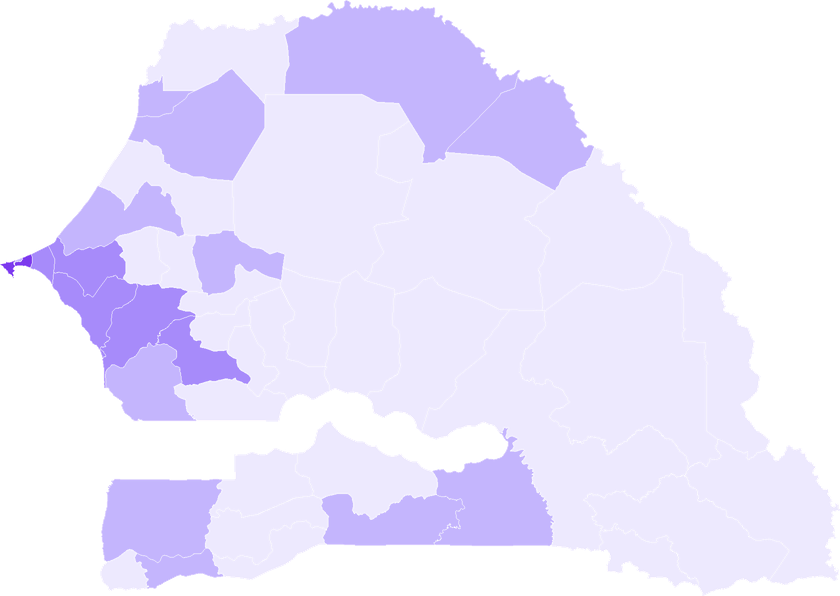
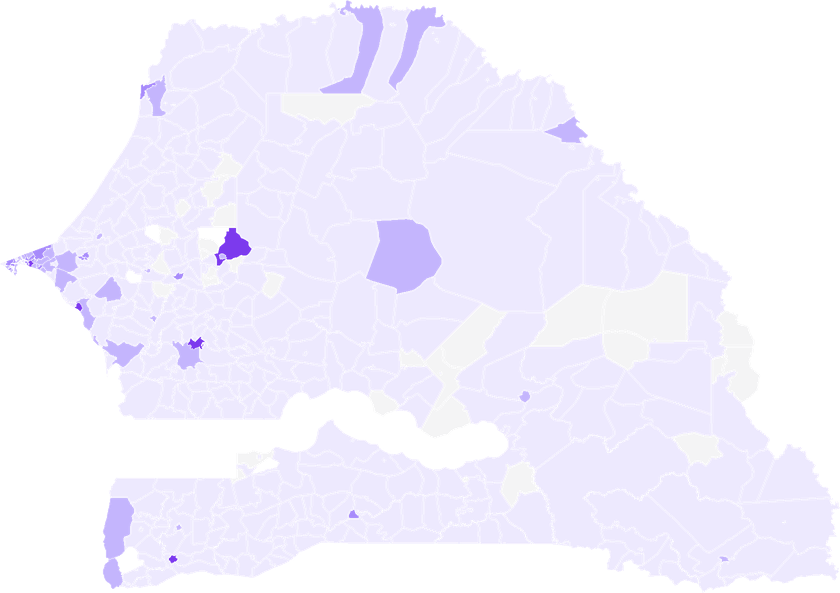
feat: map Senegal at commune level; note the Ministry's consent
Commune level now works. The previous department fallback was the right call
against the layers I had, but OpenStreetMap carries one the others do not:

    OSM admin_level=8      550 units   98.8% of schools matched
    GADM level 4           433 units   78%  (structurally capped: 433 < 549)
    geoBoundaries ADM3     121 units   arrondissements, not communes
    OCHA COD ADM3          125 units   arrondissements, not communes

Senegal has ~550 communes since the 2014 reorganisation, which is why the other
layers fall short. Polygons are stitched from the Overpass relations.

Getting from 81% to 98.8% took fixing my own normaliser as much as the source.
It missed OSM's "Communaute rurale d'" and "des" forms, so places like Oukout,
Adeane and Enampore never matched. On top of that: the census's "Com " prefix,
accent folding, the orthographic variation that is routine in Senegalese place
names (th/t, dj/j, ck/k, kh/h, ou/u, y/i, w/v, doubled letters), and a
20-entry alias table for the rest. Every fuzzy pair was eyeballed - Ngayokhene
/ Ngayokheme, Koumpentoun / Koumpentoum, Thiakar / Thiakhar are the same place.

The remaining 11 communes and 227 schools (1.2%) are drawn in the no-data tone
and the caption says so; several are simply absent from OSM.

Also: states that access to the Senegalese census is subject to the agreement
of officials at the Ministry of Education, and pulls the first record up
towards the introduction.

diff --git a/assets/css/custom.css b/assets/css/custom.css
@@ -468,6 +468,12 @@
   padding-top: 0;
 }
 
+/* Sections default to 6rem top and bottom; close most of that gap so the first
+ * record sits just under the introduction. */
+.datasets-intro {
+  padding-bottom: 1rem;
+}
+
 .dataset-wrapper {
   width: 100%;
   max-width: 880px;

diff --git a/scripts/build_senegal_maps.py b/scripts/build_senegal_maps.py
@@ -3,7 +3,7 @@
 Regenerate the Senegal school maps shown on /datasets/.
 
 One choropleth per school type, shaded by the number of schools in each
-department. Output goes to assets/media/datasets/.
+COMMUNE. Output goes to assets/media/datasets/.
 
     python3 scripts/build_senegal_maps.py
 
@@ -13,28 +13,41 @@ SOURCE DATA (not in this repo - it is not openly published):
         primary school census.xlsx
         secondary school census.xlsx
 
-WHY DEPARTMENT AND NOT COMMUNE
+BOUNDARIES: OpenStreetMap admin_level=8, fetched through Overpass (ODbL).
 
-The census locates schools to commune, and commune would be the better unit,
-but no boundary layer matches it well enough to map honestly:
+WHY OSM AND NOT GADM / geoBoundaries / OCHA
 
-    commune  vs GADM level 4 (433 shapes)   62.7% exact, 78% with fuzzy matching
-    department vs geoBoundaries ADM2 (45)   100% of schools, with 5 aliases
+The census locates schools to commune, and only OSM carries a commune layer
+that actually corresponds to it:
 
-GADM's level-4 layer has 433 communes against the census's 549 - Senegal's
-communes were reorganised and the layers genuinely do not correspond, so a
-commune map would silently drop a fifth of the schools. Department covers every
-school. If a current commune layer turns up, switch UNIT below.
+    OSM admin_level=8        550 units   98.2% of schools matched
+    GADM level 4             433 units   78%  (structurally capped: 433 < 549)
+    geoBoundaries ADM3       121 units   arrondissements, not communes
+    OCHA COD ADM3            125 units   arrondissements, not communes
+
+Senegal has ~550 communes since the 2014 reorganisation; the other layers
+predate it or stop a level short.
+
+MATCHING (see match_communes)
+
+Three passes, in order: a hand-written alias table, then exact match on a
+normalised key, then difflib at >= 0.84. Normalisation strips the census's
+"Com " prefix and OSM's "Communauté rurale de / d' / des" forms, folds accents,
+and collapses the orthographic variation that is routine in Senegalese place
+names - th/t, dj/j, ck/k, kh/h, ou/u, y/i, w/v, and doubled letters. That is
+what takes the match from 81% to 98%: "Ngayokhene"/"Ngayokhème",
+"Koumpentoun"/"Koumpentoum", "Thiakar"/"Thiakhar" are the same place.
+
+The run prints the final coverage and lists whatever is left unmatched -
+currently ~19 communes and under 2% of schools, some of which are simply
+absent from OSM. Unmatched communes are drawn in the "no data" tone.
 
 DESIGN NOTES
 
   * Sequential ramp: one hue, light to dark, lightness strictly decreasing
     (asserted at run time). Sequential encodes magnitude - never a rainbow.
-  * One ABSOLUTE scale shared by all three panels, so they are comparable: the
-    point is that secondary schools are far rarer than primary ones, and a
-    per-panel rescale would hide exactly that.
+  * One ABSOLUTE scale shared by all three panels, so they are comparable.
   * Transparent background, labels in HTML, so one asset serves both themes.
-  * Boundaries: geoBoundaries gbOpen SEN ADM2 (CC BY 3.0 IGO).
 """
 
 import json
@@ -44,19 +57,24 @@ import subprocess
 import sys
 import unicodedata
 import difflib
+from collections import Counter
 
 import pandas as pd
 from PIL import Image, ImageDraw
 
 SRC = "/Users/perezp/Dropbox/Education and Marriage in Senegal/Data/School Census"
 OUT = "assets/media/datasets"
-API = "https://www.geoboundaries.org/api/current/gbOpen/SEN/ADM2/"
+CACHE = "/tmp/osm_sen_communes.json"
+OVERPASS = "https://overpass-api.de/api/interpreter"
+QUERY = """[out:json][timeout:600];
+area["ISO3166-1"="SN"][admin_level=2]->.sn;
+relation["boundary"="administrative"]["admin_level"="8"](area.sn);
+out geom;"""
 
 WIDTH, SUPERSAMPLE = 840, 2
-# Sequential ramp, light -> dark. Verified monotonic in OKLab L at run time.
 RAMP = ["#ede9fe", "#c4b5fd", "#a78bfa", "#7c3aed", "#5b21b6"]
-BREAKS = [50, 100, 200, 350]          # upper edges; 5 bins with the tail open
-EMPTY = "#f4f4f5"
+BREAKS = [10, 20, 40, 80]              # upper edges; 5 bins, tail open
+NODATA = "#f4f4f5"
 
 TYPES = [
     ("Petite enfance", "senegal-petite-enfance"),
@@ -64,20 +82,43 @@ TYPES = [
     ("Moyen & secondaire", "senegal-moyen-secondaire"),
 ]
 
-PREFIX = re.compile(r"^(com|art|dpt|ia|ief|ville|cv)[\s.]+", re.I)
+CENSUS_PREFIX = re.compile(r"^(com|art|dpt|ia|ief|ville|cv)[\s.]+", re.I)
+OSM_PREFIX = re.compile(
+    r"^(communaut[eé]s?\s+rurales?\s+(de\s+|des\s+|du\s+|d')?"
+    r"|communes?\s+(de\s+|des\s+|du\s+|d')?"
+    r"|arrondissement\s+(de\s+|d')?|ville\s+de\s+)", re.I)
+
 ALIAS = {
-    "keurmassar": "pikine",              # split from Pikine in 2021, after the 2019 layer
-    "malemhoddar": "malemhodar",
-    "medinayorofoulah": "medinayoroufoula",
-    "nioro": "niorodurip",
-    "stlouis": "saintlouis",
+    "Com Jaxaay": "Commune de Jaxaay - Parcelles",
+    "Com Joal": "Joal-Fadiouth",
+    "Com Dahra": "Dahra Djoloff",
+    "Com Saly": "Saly Portudal",
+    "Com Plateau": "Commune de Dakar-Plateau",
+    "Com Koki": "Communauté rurale de Coki",
+    "Com Fass Gueule Tapee Col": "Commune de Gueule Tapée-Fass-Colobane",
+    "Com Diender Guedji": "Communauté rurale de Diender",
+    "Com Agnam Civol": "Communauté rurale des Agnams",
+    "Com Popenguine": "Popenguine-Ndayane",
+    "Com Enampor": "Communauté rurale d'Enampore",
+    "Com Nioro": "Nioro du Rip",
+    "Com Dialokoto": "Communauté rurale de Dialacoto",
+    "Com Boutoupa Cam": "Communauté rurale de Boutoupa-Camaracounda",
+    "Com Thiakar": "Communauté rurale de Thiakhar",
+    "Com Oudougar": "Communauté rurale de Oudoucar",
+    "Com Santhiaba Mandjack": "Communauté rurale de Santhiaba Manjacque",
+    "Com Mbacke Cadior": "Communauté rurale de Mbacké Kadjor",
+    "Com Guede Chantier": "Communauté rurale de Guédé Village",
+    "Com Ndioumane Thiekene": "Communauté rurale de Ndioumane",
 }
 
 
-def norm(s):
-    s = PREFIX.sub("", str(s).strip())
-    s = unicodedata.normalize("NFKD", s).encode("ascii", "ignore").decode()
-    return re.sub(r"[^a-z0-9]", "", s.lower())
+def norm(s, osm=False):
+    s = (OSM_PREFIX if osm else CENSUS_PREFIX).sub("", str(s).strip())
+    s = unicodedata.normalize("NFKD", s).encode("ascii", "ignore").decode().lower()
+    s = re.sub(r"[^a-z0-9]", "", s)
+    s = (s.replace("th", "t").replace("dj", "j").replace("ck", "k").replace("kh", "h")
+          .replace("ou", "u").replace("y", "i").replace("w", "v"))
+    return re.sub(r"(.)\1+", r"\1", s)
 
 
 def oklab_l(hex_color):
@@ -90,23 +131,69 @@ def oklab_l(hex_color):
     return 0.2104542553 * l + 0.7936177850 * m - 0.0040720468 * s
 
 
-def boundaries(cache="/tmp/sen_adm2.geojson"):
-    if not os.path.exists(cache):
-        meta = json.loads(subprocess.run(["curl", "-fsSL", API], capture_output=True,
-                                         text=True, check=True).stdout)
-        meta = meta[0] if isinstance(meta, list) else meta
-        url = meta.get("simplifiedGeometryGeoJSON") or meta["gjDownloadURL"]
-        subprocess.run(["curl", "-fsSL", "-o", cache, url], check=True)
-    return json.load(open(cache))
+def fetch_communes():
+    if not os.path.exists(CACHE):
+        subprocess.run(["curl", "-fsSL", "-m", "900", "-X", "POST",
+                        "--data-binary", QUERY, OVERPASS, "-o", CACHE], check=True)
+    return json.load(open(CACHE))["elements"]
+
+
+def rings_of(rel):
+    """Stitch a relation's `outer` ways into closed rings."""
+    segs = [[(p["lon"], p["lat"]) for p in m["geometry"]]
+            for m in rel.get("members", [])
+            if m.get("role") == "outer" and m.get("geometry")]
+    rings, current = [], None
+    while segs:
+        if current is None:
+            current = segs.pop(0)
+            continue
+        tail = current[-1]
+        for i, s in enumerate(segs):
+            if s[0] == tail:
+                current += segs.pop(i)[1:]
+                break
+            if s[-1] == tail:
+                current += list(reversed(segs.pop(i)))[1:]
+                break
+        else:                       # nothing joins: close what we have, start over
+            rings.append(current)
+            current = None
+            continue
+        if current[0] == current[-1]:
+            rings.append(current)
+            current = None
+    if current:
+        rings.append(current)
+    return [r for r in rings if len(r) >= 4]
+
+
+def match_communes(census_names, osm_names):
+    idx = {}
+    for o in osm_names:
+        idx.setdefault(norm(o, True), o)
+    keys = list(idx)
+    mapping, how = {}, Counter()
+    for u in census_names:
+        if u in ALIAS and ALIAS[u] in osm_names:
+            mapping[u] = ALIAS[u]; how["alias"] += 1; continue
+        n = norm(u)
+        if n in idx:
+            mapping[u] = idx[n]; how["exact"] += 1; continue
+        hit = difflib.get_close_matches(n, keys, n=1, cutoff=0.84)
+        if hit:
+            mapping[u] = idx[hit[0]]; how["fuzzy"] += 1
+    return mapping, how
 
 
 def main():
-    lightness = [oklab_l(c) for c in RAMP]
-    assert all(a > b for a, b in zip(lightness, lightness[1:])), \
-        f"ramp lightness must decrease monotonically, got {[round(x,3) for x in lightness]}"
+    light = [oklab_l(c) for c in RAMP]
+    assert all(a > b for a, b in zip(light, light[1:])), "ramp must darken monotonically"
 
-    geo = boundaries()
-    shapes = {norm(f["properties"]["shapeName"]): f for f in geo["features"]}
+    rels = [r for r in fetch_communes() if r.get("tags", {}).get("name")]
+    geom = {r["tags"]["name"]: rings_of(r) for r in rels}
+    geom = {k: v for k, v in geom.items() if v}
+    print(f"OSM communes with usable geometry: {len(geom)}/{len(rels)}")
 
     pri = pd.read_excel(f"{SRC}/primary school census.xlsx")
     sec = pd.read_excel(f"{SRC}/secondary school census.xlsx")
@@ -114,25 +201,22 @@ def main():
         {"PETITE ENFANCE": "Petite enfance", "PRIMAIRE": "Primaire"})
     sec["_type"] = "Moyen & secondaire"
     cen = pd.concat([pri, sec])
+    cen["COMMUNE"] = cen["COMMUNE"].astype(str)
 
-    def to_shape(v):
-        n = ALIAS.get(norm(v), norm(v))
-        if n in shapes:
-            return n
-        hit = difflib.get_close_matches(n, list(shapes), n=1, cutoff=0.85)
-        return hit[0] if hit else None
+    mapping, how = match_communes(sorted(cen["COMMUNE"].unique()), list(geom))
+    cen["_com"] = cen["COMMUNE"].map(mapping)
+    hit = cen["_com"].notna().sum()
+    print(f"matched {len(mapping)}/{cen['COMMUNE'].nunique()} communes "
+          f"({len(mapping)/cen['COMMUNE'].nunique()*100:.1f}%), "
+          f"{hit:,}/{len(cen):,} schools ({hit/len(cen)*100:.1f}%)  {dict(how)}")
+    miss = cen[cen._com.isna()]["COMMUNE"].value_counts()
+    if len(miss):
+        print(f"  unmatched ({len(miss)} communes, {miss.sum():,} schools):",
+              ", ".join(miss.index[:8]) + ("…" if len(miss) > 8 else ""))
 
-    cen["_dept"] = cen["DEPARTEMENT"].map(to_shape)
-    unmatched = cen["_dept"].isna().sum()
-    print(f"{len(cen):,} schools, {unmatched} unmatched to a department "
-          f"({(len(cen)-unmatched)/len(cen)*100:.1f}% covered)")
-    if unmatched:
-        print("  unmatched:", sorted(cen.loc[cen._dept.isna(), "DEPARTEMENT"].unique())[:10])
-
-    # one projection for every panel
-    xs = [pt[0] for f in geo["features"] for poly in _polys(f) for pt in poly]
-    ys = [pt[1] for f in geo["features"] for poly in _polys(f) for pt in poly]
-    LON0, LON1, LAT0, LAT1 = min(xs), max(xs), min(ys), max(ys)
+    pts = [p for rs in geom.values() for r in rs for p in r]
+    LON0, LON1 = min(p[0] for p in pts), max(p[0] for p in pts)
+    LAT0, LAT1 = min(p[1] for p in pts), max(p[1] for p in pts)
     height = int(round(WIDTH * (LAT1 - LAT0) / (LON1 - LON0)))
 
     def project(lon, lat):
@@ -149,27 +233,21 @@ def main():
 
     os.makedirs(OUT, exist_ok=True)
     for label, slug in TYPES:
-        counts = cen[cen._type == label].groupby("_dept").size()
+        counts = cen[cen._type == label].groupby("_com").size()
         img = Image.new("RGBA", (WIDTH * SUPERSAMPLE, height * SUPERSAMPLE), (0, 0, 0, 0))
         d = ImageDraw.Draw(img, "RGBA")
-        for key, feat in shapes.items():
-            n = int(counts.get(key, 0))
+        for name, rs in geom.items():
+            n = int(counts.get(name, 0))
             b = bin_of(n)
-            fill = RAMP[b] if b is not None else EMPTY
+            fill = RAMP[b] if b is not None else NODATA
             rgb = tuple(int(fill[i:i + 2], 16) for i in (1, 3, 5))
-            for poly in _polys(feat):
-                d.polygon([project(x, y) for x, y in poly],
-                          fill=rgb + (255,), outline=(255, 255, 255, 210))
+            for ring in rs:
+                d.polygon([project(x, y) for x, y in ring],
+                          fill=rgb + (255,), outline=(255, 255, 255, 150))
         img.resize((WIDTH, height), Image.LANCZOS).save(f"{OUT}/{slug}.png", optimize=True)
-        print(f"  {label:20s} {counts.sum():6,} schools, "
-              f"{counts.min()}–{counts.max()} per department -> {slug}.png")
-
-
-def _polys(feat):
-    g = feat["geometry"]
-    if g["type"] == "Polygon":
-        return g["coordinates"]
-    return [ring for poly in g["coordinates"] for ring in poly]
+        nz = counts[counts > 0]
+        print(f"  {label:20s} {counts.sum():6,} schools across {len(nz):3d} communes "
+              f"({nz.min()}–{nz.max()} each) -> {slug}.png")
 
 
 if __name__ == "__main__":

diff --git a/content/datasets/school-censuses/index.md b/content/datasets/school-censuses/index.md
@@ -73,35 +73,36 @@ dataset:
         - image: 'datasets/senegal-petite-enfance.png'
           label: 'Petite enfance'
           value: '5,116'
-          alt: 'Map of Senegal shaded by the number of pre-school establishments per department'
+          alt: 'Map of Senegal shaded by the number of pre-school establishments per commune'
         - image: 'datasets/senegal-primaire.png'
           label: 'Primaire'
           value: '11,181'
-          alt: 'Map of Senegal shaded by the number of primary schools per department'
+          alt: 'Map of Senegal shaded by the number of primary schools per commune'
         - image: 'datasets/senegal-moyen-secondaire.png'
           label: 'Moyen & secondaire'
           value: '2,655'
-          alt: 'Map of Senegal shaded by the number of middle and secondary schools per department'
+          alt: 'Map of Senegal shaded by the number of middle and secondary schools per commune'
       legend:
-        label: 'Schools per department'
+        label: 'Schools per commune'
         items:
-          - {color: '#ede9fe', text: '1–49'}
-          - {color: '#c4b5fd', text: '50–99'}
-          - {color: '#a78bfa', text: '100–199'}
-          - {color: '#7c3aed', text: '200–349'}
-          - {color: '#5b21b6', text: '350+'}
+          - {color: '#ede9fe', text: '1–9'}
+          - {color: '#c4b5fd', text: '10–19'}
+          - {color: '#a78bfa', text: '20–39'}
+          - {color: '#7c3aed', text: '40–79'}
+          - {color: '#5b21b6', text: '80+'}
       caption: >
-        All three panels share one absolute scale, so they can be read against
-        each other: middle and secondary schools are scarce almost everywhere,
-        while primary provision is dense across the country. Mapped by
-        department rather than commune — the census locates schools to commune,
-        but no available boundary layer matches those names well enough (62.7%
-        against GADM's communes, 78% even with fuzzy matching), whereas
-        department covers 100% of the 18,952 establishments.
+        Mapped at commune level — 544 communes — with all three panels on one
+        absolute scale, so they can be read against each other: middle and
+        secondary schools are scarce almost everywhere, while primary provision
+        is dense across the country. 98.8% of the 18,952 establishments matched
+        a commune boundary; the pale areas are the remainder, mostly communes
+        that OpenStreetMap does not yet carry.
       collection: >
-        Obtained directly from officials at the Ministry of Education.
-        Department boundaries from
-        [geoBoundaries](https://www.geoboundaries.org) (CC BY 3.0 IGO).
+        Obtained directly from officials at the Ministry of Education. **Access
+        to the Senegalese census is subject to their agreement**, so a request
+        for it is passed on to the Ministry rather than granted directly.
+        Commune boundaries from
+        [OpenStreetMap](https://www.openstreetmap.org/copyright) (ODbL).
 
   closing: 'Both are still in use in some of my ongoing papers.'
   access: >

diff --git a/content/datasets/_index.md b/content/datasets/_index.md
@@ -9,7 +9,8 @@ design:
 sections:
   - block: markdown
     design:
-      css_class: page-wide
+      # `datasets-intro` pulls the first record up towards this paragraph.
+      css_class: 'page-wide datasets-intro'
     content:
       title: 'Datasets'
       text: |
